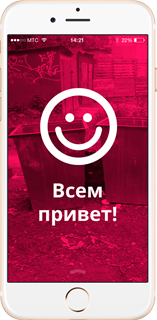
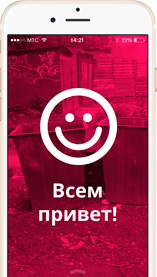
Оптимизирована загрузка блока features.

diff --git a/source/index.html b/source/index.html
@@ -107,10 +107,49 @@
             </ul>
             <div class="features__image-list">
               <div class="features__image features__image--only-desktop features__image--gray">
+                <picture class="features__image-wrapper">
+                  <source type="image/webp" media="(min-width: 960px)"
+                    srcset="img/iphone-screen-1-desktop@1x.webp 1x, img/iphone-screen-1-desktop@2x.webp 2x">
+                  <source type="image/webp" media="(min-width: 660px)"
+                    srcset="img/iphone-screen-1-tablet@1x.webp 1x, img/iphone-screen-1-tablet@2x.webp 2x">
+                  <source type="image/webp" srcset="img/iphone-screen-mobile@1x.webp 1x, img/iphone-screen-mobile@2x.webp 2x">
+                  <source media="(min-width: 960px"
+                    srcset="img/iphone-screen-1-desktop@1x.png 1x, img/iphone-screen-1-desktop@2x.png 2x">
+                  <source media="(min-width: 660px)"
+                    srcset="img/iphone-screen-1-tablet@1x.png 1x, img/iphone-screen-1-tablet@2x.png 2x">
+                  <img src="img/iphone-screen-mobile@1x.png" width="157" height="277" alt="Телефон со смайлико на розовом экране"
+                    srcset="img/iphone-screen-mobile@2x.png 2x">
+                </picture>
               </div>
               <div class="features__image features__image--only-desktop features__image--pink">
+                <picture class="features__image-wrapper">
+                  <source type="image/webp" media="(min-width: 960px)"
+                    srcset="img/iphone-screen-2-desktop@1x.webp 1x, img/iphone-screen-2-desktop@2x.webp 2x">
+                  <source type="image/webp" media="(min-width: 660px)"
+                    srcset="img/iphone-screen-2-tablet@1x.webp 1x, img/iphone-screen-2-tablet@2x.webp 2x">
+                  <source type="image/webp" srcset="img/iphone-screen-mobile@1x.webp 1x, img/iphone-screen-mobile@2x.webp 2x">
+                  <source media="(min-width: 960px"
+                    srcset="img/iphone-screen-2-desktop@1x.png 1x, img/iphone-screen-2-desktop@2x.png 2x">
+                  <source media="(min-width: 660px)"
+                    srcset="img/iphone-screen-2-tablet@1x.png 1x, img/iphone-screen-2-tablet@2x.png 2x">
+                  <img src="img/iphone-screen-mobile@1x.png" width="157" height="277" alt="Телефон со смайлико на розовом экране"
+                    srcset="img/iphone-screen-mobile@2x.png 2x">
+                </picture>
               </div>
               <div class="features__image features__image--smile">
+                <picture class="features__image-wrapper">
+                  <source type="image/webp" media="(min-width: 960px)"
+                    srcset="img/iphone-screen-3-desktop@1x.webp 1x, img/iphone-screen-3-desktop@2x.webp 2x">
+                  <source type="image/webp" media="(min-width: 660px)"
+                    srcset="img/iphone-screen-3-tablet@1x.webp 1x, img/iphone-screen-3-tablet@2x.webp 2x">
+                  <source type="image/webp" srcset="img/iphone-screen-mobile@1x.webp 1x, img/iphone-screen-mobile@2x.webp 2x">
+                  <source media="(min-width: 960px"
+                    srcset="img/iphone-screen-3-desktop@1x.png 1x, img/iphone-screen-3-desktop@2x.png 2x">
+                  <source media="(min-width: 660px)"
+                    srcset="img/iphone-screen-3-tablet@1x.png 1x, img/iphone-screen-3-tablet@2x.png 2x">
+                  <img src="img/iphone-screen-mobile@1x.png" width="157" height="277" alt="Телефон со смайлико на розовом экране"
+                    srcset="img/iphone-screen-mobile@2x.png 2x">
+                </picture>
               </div>
             </div>
           </div>

diff --git a/source/sass/blocks/features.scss b/source/sass/blocks/features.scss
@@ -36,9 +36,6 @@
   padding: 16px 28px 0 28px;
 }
 
-.features__image--only-desktop {
-  display: none;
-}
 
 .features__title {
   margin: 0;
@@ -82,13 +79,28 @@
 }
 
 .features__image {
+  display: flex;
+  flex-direction: column;
+
   height: 303px;
   width: 320px;
   margin: 0 auto;
-  // background-color: #f2f2f2;
-  background-image: url("../img/iphone-screen-mobile@1x.png");
-  background-repeat: no-repeat;
-  background-position: 50% 24px;
+
+  // background-image: url("../img/iphone-screen-mobile@1x.png");
+  // background-repeat: no-repeat;
+  // background-position: 50% 24px;
+}
+
+.features__image--only-desktop {
+  display: none;
+}
+
+.features__image-wrapper {
+  margin: auto auto 0;
+}
+
+.features__image-wrapper img {
+  display: block;
 }
 
 .features__wrapper {
@@ -140,8 +152,17 @@
 
   .features__image {
     height: 496px;
-    background-image: url("../img/iphone-screen-3-tablet@1x.png");
-    background-position: 40% 100%;
+    box-sizing: border-box;
+    padding-right: 13px;
+
+    // background-image: url("../img/iphone-screen-3-tablet@1x.png");
+    // background-position: 40% 100%;
+  }
+
+  .features__image-wrapper img {
+    display: block;
+    width: 268px;
+    height: auto;
   }
 
   .features__list {
@@ -187,7 +208,8 @@
   }
 
   .features__image--only-desktop {
-    display: block;
+    display: flex;
+    flex-direction: column;
   }
 
   // .features__container {
@@ -207,21 +229,27 @@
   .features__image {
     height: 301px;
     width: 320px;
-    background-repeat: no-repeat;
-    background-position: 50% 100%;
+    padding-right: 0;
+    //background-repeat: no-repeat;
+    //background-position: 50% 100%;
+  }
+
+  .features__image-wrapper img {
+    width: 291px;
   }
 
   .features__image--gray {
-    background-image: url("../img/iphone-screen-1-desktop@1x.png");
+    //background-image: url("../img/iphone-screen-1-desktop@1x.png");
   }
 
   .features__image--pink {
-    background-image: url("../img/iphone-screen-2-desktop@1x.png");
+    //background-image: url("../img/iphone-screen-2-desktop@1x.png");
   }
 
   .features__image--smile {
-    background-image: url("../img/iphone-screen-3-desktop@1x.png");
+    //background-image: url("../img/iphone-screen-3-desktop@1x.png");
   }
+
 
   .features__list {
     display: flex;

diff --git a/gulpfile.js b/gulpfile.js
@@ -110,7 +110,7 @@ gulp.task("build", gulp.series(
   "clean",
   "copy",
   "css",
-  "images",
+  //"images",
   "webp",
   "sprite",
   "compressjs",
